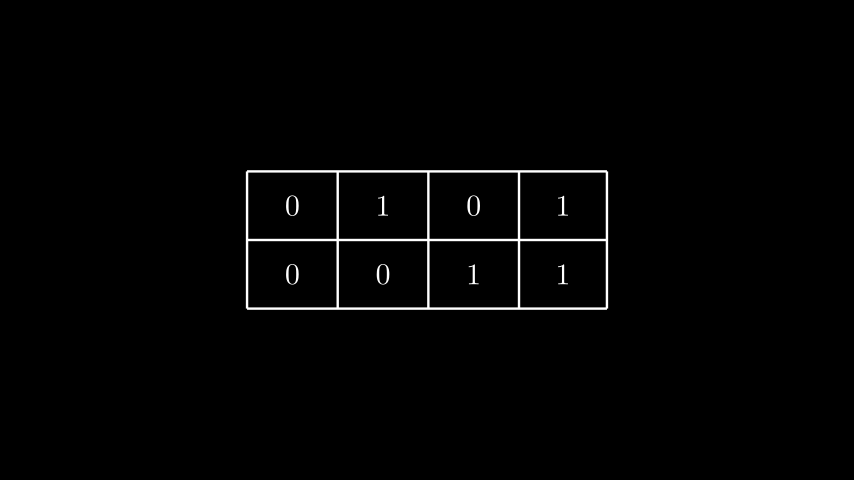
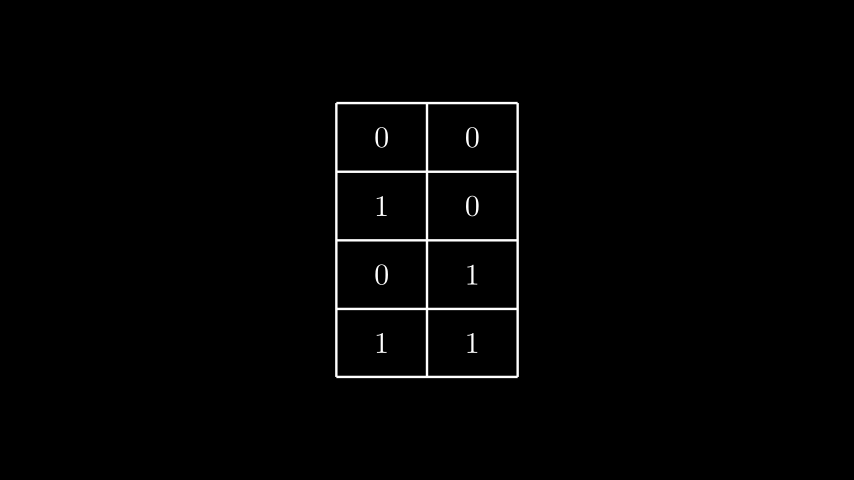
upd

diff --git a/main.py b/main.py
@@ -4,7 +4,7 @@ import numpy as np
 
 def make_truth_table(var_qty: int) -> list:
     column_max_size = 2 ** var_qty
-    result = np.zeros(shape=(var_qty, column_max_size), dtype=int)
+    result = np.zeros(shape=(column_max_size, var_qty), dtype=int)
     for i in range(var_qty):
         counter = 0
         temp = 0
@@ -12,21 +12,18 @@ def make_truth_table(var_qty: int) -> list:
             if counter == i + 1:
                 counter = 0
                 temp = 1 if temp == 0 else 0
-            result[i][j] = temp
+            result[j][i] = temp
             counter += 1
     
     return result
 
 # t = make_truth_table(2)
-# np.transpose(t)
 # print(t)
 
 
 class MathTableExampe(Scene):
     def construct(self):
         table_data = make_truth_table(var_qty=2)
-        np.transpose(table_data)
-        
         table = MathTable(table_data,
             include_outer_lines=True
             )
